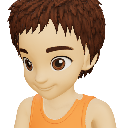
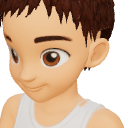
3D-forsøg: kort hår tættere på hovedet og fri af ørerne

diff --git a/3d-forsoeg/index.html b/3d-forsoeg/index.html
@@ -1011,7 +1011,7 @@ const exists = async u => { try { return (await fetch(u, { method: 'HEAD' })).ok
 // (Bob taken out 01-11-2026 - the user chose to go on without it; haar-bob.json/.jpg are kept, put back
 // ['haar-bob', 'Bob'] after Kort to have it again; Skaldet - no hair - taken out the same day, put back ['', 'Skaldet']
 // first to have it again)
-const HAIRS = [['haar-kort', 'Kort'], ['haar-kroeller', 'Krøller'], ['haar-strit', 'Strit'], ['haar-fletninger', 'Fletninger', { braids: true }], ['haar-fletning', 'Fletning']];
+const HAIRS = [['haar-kort', 'Kort', { snug: .55, ears: true }], ['haar-kroeller', 'Krøller'], ['haar-strit', 'Strit'], ['haar-fletninger', 'Fletninger', { braids: true }], ['haar-fletning', 'Fletning']];
 let hairNow = 'haar-kort', hairBase = null; const hairMeshes = {};
 // the figure's eye whites and head bone, measured once as it stands when loaded (in its T-pose, before it moves)
 function measureHead(fbx) {
@@ -1179,6 +1179,27 @@ function glassesParts(g, img, eyes, opts) {
   return lens.length; }
 // (hats and glasses are put on the same way: made on a bald head, set by the eyes, held by the head - with their own
 // colour list and part, and made a little bigger where they must sit over the hair)
+// (short hair closer to the head and clear of the ears - the user. snug: how much of the hair's thickness over the skull
+// is kept, each point drawn in towards the head's middle; ears: the hair over each ear lifted to just above it, so the
+// ear shows, the hair in front of it - by the cheek - left as it is)
+function hugHead(W, n, opts, a, eyeY, eyes) {
+  const { pts } = hairBase.whole, mx = (eyes[0].x + eyes[1].x) / 2, ez = (eyes[0].z + eyes[1].z) / 2, c = new THREE.Vector3(mx, eyeY + .25 * a, ez - .95 * a), v = new THREE.Vector3();
+  if (opts.snug) { // (the skull's size in each direction from the middle: the furthest of the body's head points there, in bins round it)
+    const NU = 48, NV = 24, R = new Float32Array(NU * NV), bin = d => { const u = Math.floor((Math.atan2(d.x, d.z) / Math.PI + 1) / 2 * NU) % NU, w = Math.min(NV - 1, Math.floor(Math.acos(Math.max(-1, Math.min(1, d.y))) / Math.PI * NV)); return w * NU + u; };
+    for (let j = 0; j < pts.length; j += 6) { const y = pts[j + 1]; if (y < eyeY - 1.1 * a || Math.abs(pts[j] - mx) > 1.3 * a) continue; v.set(pts[j], y, pts[j + 2]).sub(c); const r = v.length(), k = bin(v.normalize()); if (r > R[k]) R[k] = r; }
+    // (empty bins - under the jaw - from their neighbours, then each evened out with its neighbours)
+    for (let it = 0; it < 4; it++) for (let k = 0; k < R.length; k++) if (!R[k]) R[k] = Math.max(R[(k + 1) % R.length], R[(k + R.length - 1) % R.length]);
+    const S = R.map((_, k) => { const w = Math.floor(k / NU), u = k % NU; let s = 0, m = 0; for (let dw = -1; dw <= 1; dw++) for (let du = -1; du <= 1; du++) { const ww = w + dw; if (ww < 0 || ww >= NV) continue; s += R[ww * NU + (u + du + NU) % NU]; m++; } return s / m; });
+    for (let i = 0; i < n; i++) { v.fromArray(W, i * 3).sub(c); const r = v.length(), d = v.clone().normalize(), skull = S[bin(d)] + .015 * a; if (r <= skull) continue;
+      v.copy(d).multiplyScalar(skull + (r - skull) * opts.snug).add(c); W.set([v.x, v.y, v.z], i * 3); } }
+  if (opts.ears && earData) { const M = earData.M, A = hairBase.body.geometry.attributes.position;
+    for (const s of [-1, 1]) { const E = earData.sides[s]; let top = -Infinity, front = -Infinity, back = Infinity;
+      for (let k = 0; k < E.idx.length; k++) { if (E.w[k] < .3) continue; v.set(E.pos[k * 3], E.pos[k * 3 + 1], E.pos[k * 3 + 2]).applyMatrix4(M); top = Math.max(top, v.y); front = Math.max(front, v.z); back = Math.min(back, v.z); }
+      if (!isFinite(top)) continue; const lift = top + .07 * a, sm = t => { t = Math.min(1, Math.max(0, t)); return t * t * (3 - 2 * t); };
+      for (let i = 0; i < n; i++) { const x = W[i * 3], y = W[i * 3 + 1], z = W[i * 3 + 2]; if ((x - mx) * s < .6 * a || y >= lift) continue;
+        // (fully over the ear's length front to back, fading out a little beyond it; and only on the side of the head)
+        const f = sm((z - (back - .18 * a)) / (.15 * a)) * sm(((front + .06 * a) - z) / (.12 * a)) * sm(((x - mx) * s - .6 * a) / (.2 * a)); if (!f) continue;
+        W[i * 3 + 1] = y + (lift - .25 * (lift - y) * .3 - y) * f; } } } }
 async function loadHair(name, list = hairTexs, colourPart = 'hair', extra = {}) {
   const opts = HAIRS.find(h => h[0] === name)?.[2] || extra;
   if (!hairBase || !(await exists(`${name}.json${FIGUR_V}`))) return null;
@@ -1213,6 +1234,7 @@ async function loadHair(name, list = hairTexs, colourPart = 'hair', extra = {}) 
   // (braids: each is turned as one straight piece about where it starts, just under the ear, until it points down and
   // forward to rest on the front of the chest - a straight line, clear of the shoulder)
   const bend = opts.braids ? braidsForward(W, n, apart, eyeY, (mine[0].z + mine[1].z) / 2) : null;
+  if (opts.snug || opts.ears) hugHead(W, n, opts, apart, eyeY, mine);
   for (let i = 0; i < n; i++) { p.fromArray(W, i * 3); const w = weight[i];
     p.addScaledVector(shift[p.x < 0 ? 0 : 1], Math.min(1, 6 * (1 - w)));
     a.copy(p).applyMatrix4(hairBase.headBack); b.copy(p).applyMatrix4(hairBase.chestBack); a.lerp(b, 1 - w); pos.setXYZ(i, a.x, a.y, a.z);
@@ -2424,7 +2446,7 @@ async function loadFbx() { if (!(await exists('figur.fbx' + FIGUR_V))) return fa
   whitesByPlace(fbx);
   const box = new THREE.Box3().setFromObject(fbx), size = box.getSize(new THREE.Vector3()), k = 2.15 / size.y;
   fbx.scale.setScalar(k); fbx.position.y = -box.min.y * k; holder.add(fbx); glb = fbx;
-  measureHead(fbx); if (hairBase) setupBrows(hairBase.body); await setHair(hairNow); chestName(); setupEars();
+  measureHead(fbx); if (hairBase) setupBrows(hairBase.body); setupEars(); await setHair(hairNow); chestName();
   mixer = new THREE.AnimationMixer(fbx); if (fbx.animations[0]) glbActions.vink = mixer.clipAction(fbx.animations[0]);
   // (each movement preferably as figur-<name>.json: only the movement, taken out of Mixamo's file - a few hundred KB
   // where the .fbx, the whole figure again, is 19 MB)
